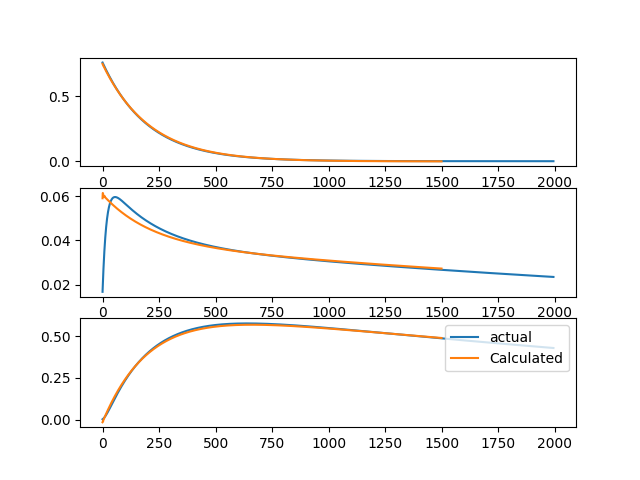
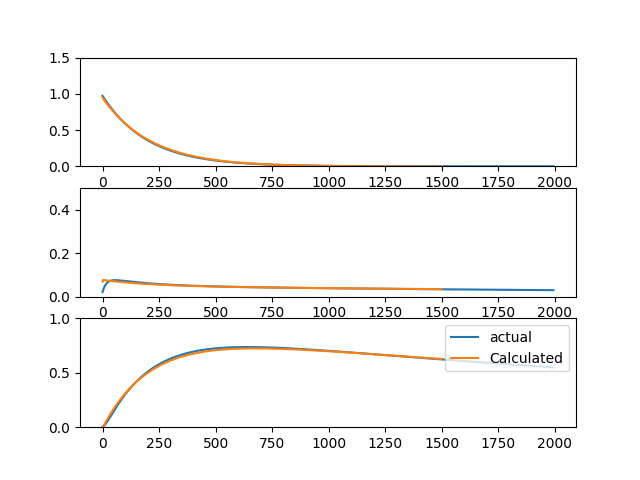
many results

diff --git a/ann_conv.py b/ann_conv.py
@@ -13,34 +13,44 @@ def solveModel():
     t = np.linspace(0, 2000, 2001)
     X, y = sE.generateData(in_width)
     X, y = mE.generateData(t, in_width, nPatients = 20)
+
+    print(X.shape)
+    print(y.shape)
+
+    rY, cY = y.shape
+    yHats = []
     
     if True:
         in_channel = y.shape[1]
         channels   = [10, 8, in_channel]
         padding    = ['SAME', 'SAME', 'VALID']
 
-        X0 = X[:1, :, :]
 
+        print('Fitting a model ...')
         model = ctd.ConvTD(in_width, in_channel, channels, padding)
         model.fit(X, y)
-        yHat = model.predict( X0, nTerms=1500 )
 
-        print(yHat)
+        print('Making Predictions ...')
+        for i in range(5):
+            pos = (rY//20)*i
+            X0 = X[pos:pos+1, :, :]
+            yHat = model.predict( X0, nTerms=1500 )
+            print(yHat)
+            yHats.append(yHat)
 
     print('Generating Plots')
     if True:
-        print(X.shape)
-        print(y.shape)
 
-        rY, cY = y.shape
-
-        for i in tqdm(range(1)):
+        yLims = [(0, 1.5), (0, 0.5), (0, 1)]
+        for i in tqdm(range(5)):
             plt.clf()
             for j in range(cY):
                 plt.subplot(310+j+1)
                 yTP = y[(rY//20)*i : (rY//20)*(i+1)-1, j]
                 plt.plot(yTP, label='actual')
-                plt.plot(yHat[:, j], label='Calculated')
+                plt.plot(yHats[i][:, j], label='Calculated')
+                plt.ylim(yLims[j])
+
             plt.legend(loc='upper right')
             plt.savefig( 'img/y_{:05}.png'.format(i) )
 
